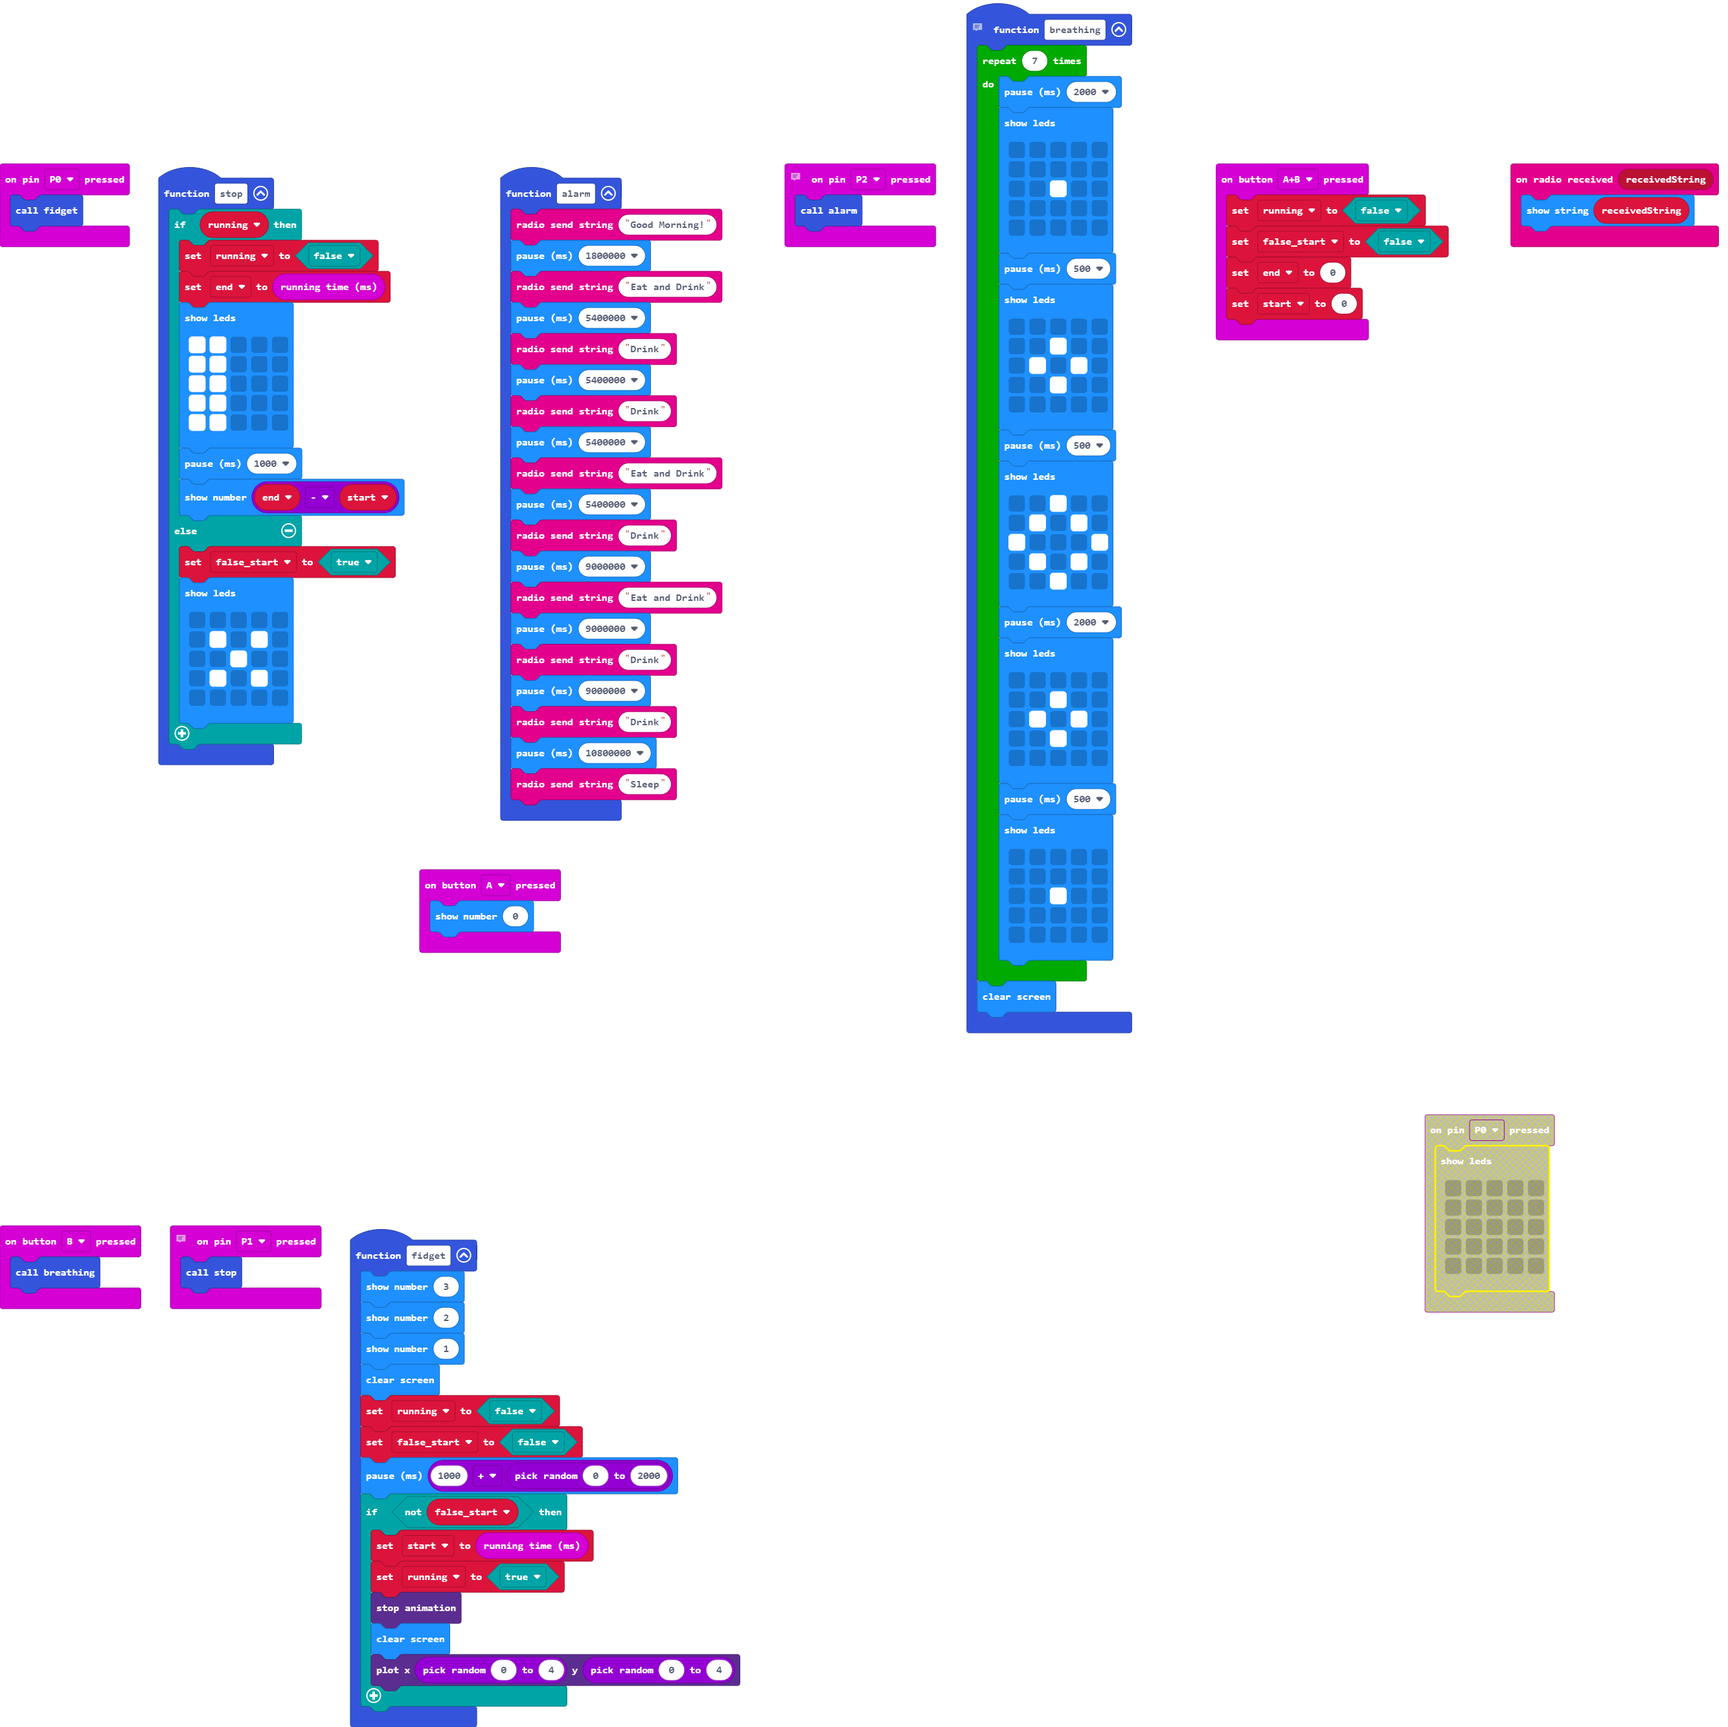
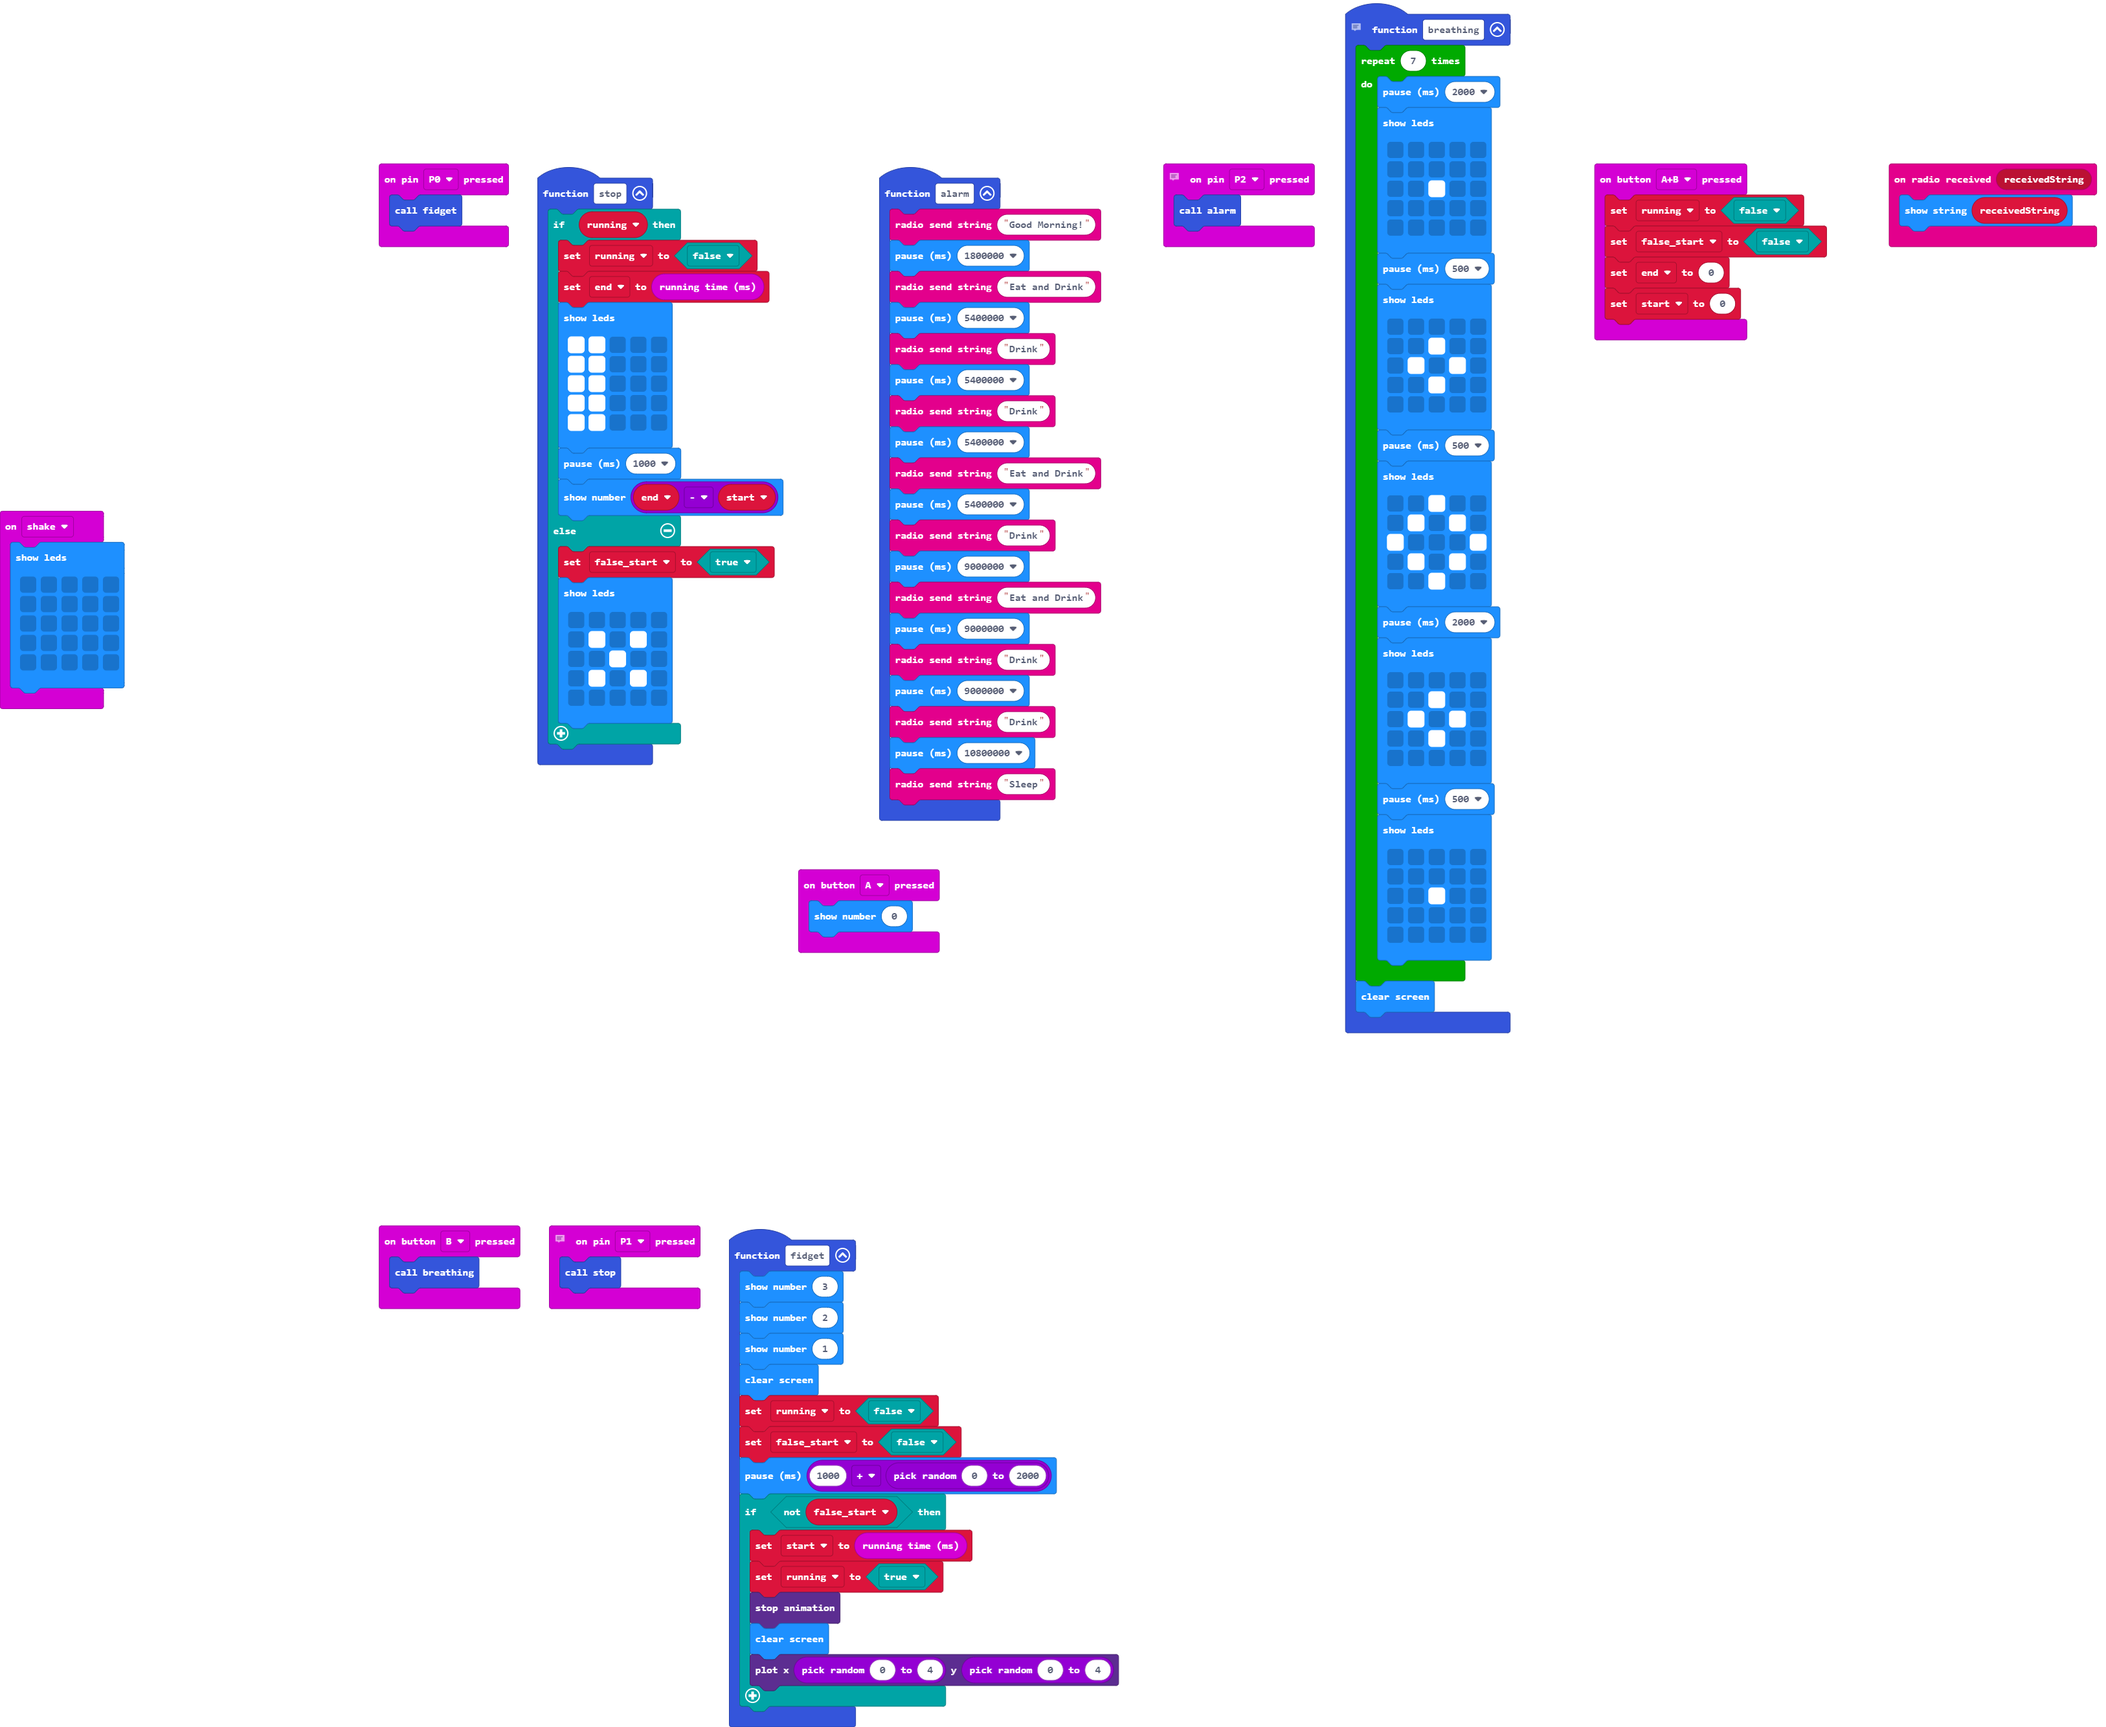
Update main.blocks, main.ts

diff --git a/main.ts b/main.ts
@@ -122,6 +122,15 @@ input.onButtonPressed(Button.B, function () {
 input.onPinPressed(TouchPin.P1, function () {
     stop()
 })
+input.onGesture(Gesture.Shake, function () {
+    basic.showLeds(`
+        . . . . .
+        . . . . .
+        . . . . .
+        . . . . .
+        . . . . .
+        `)
+})
 function fidget () {
     basic.showNumber(3)
     basic.showNumber(2)
